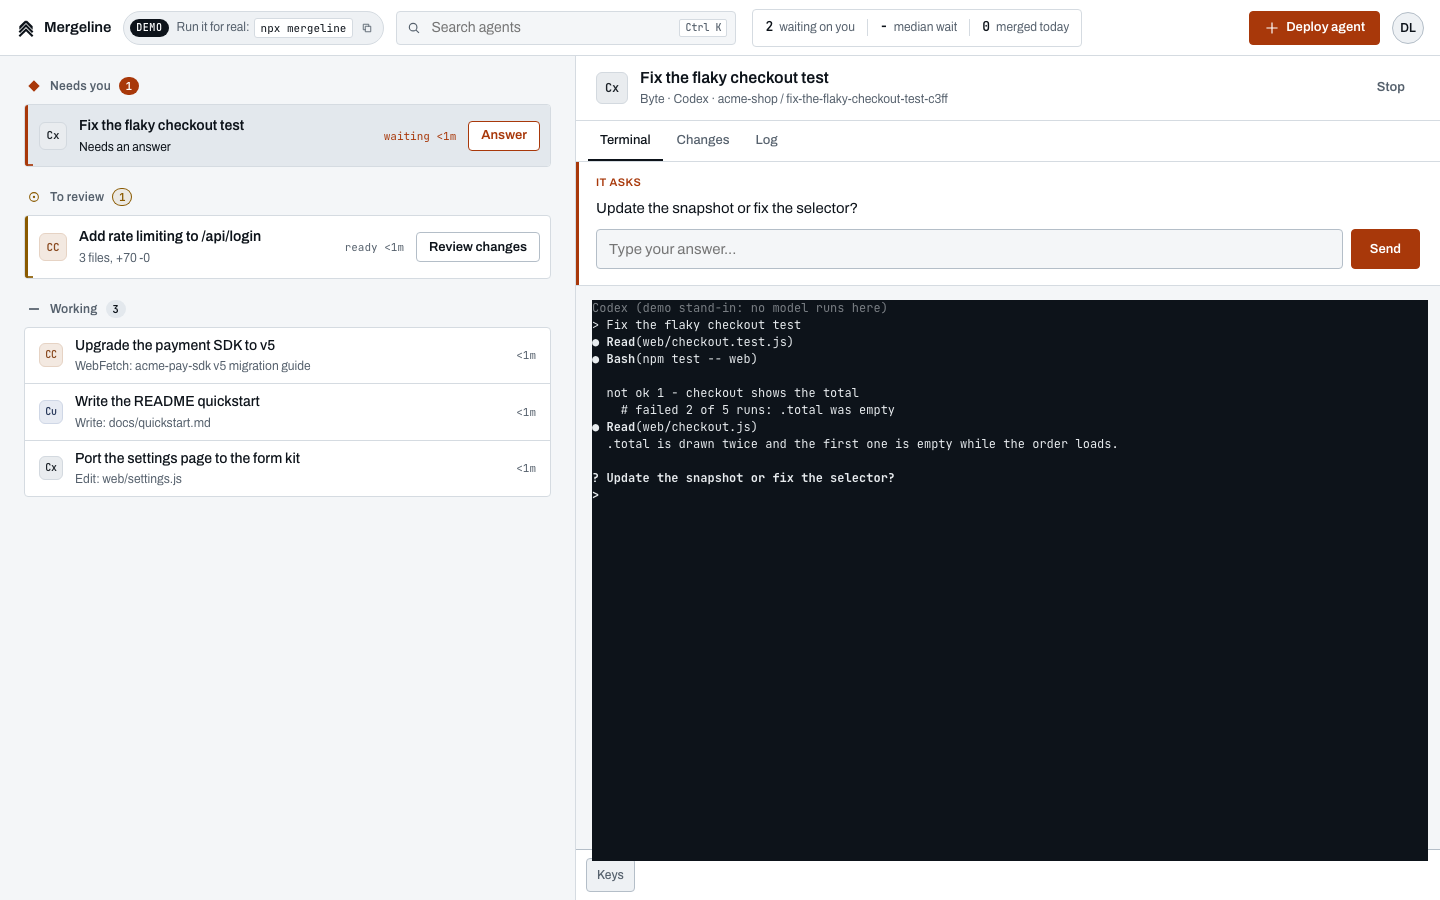
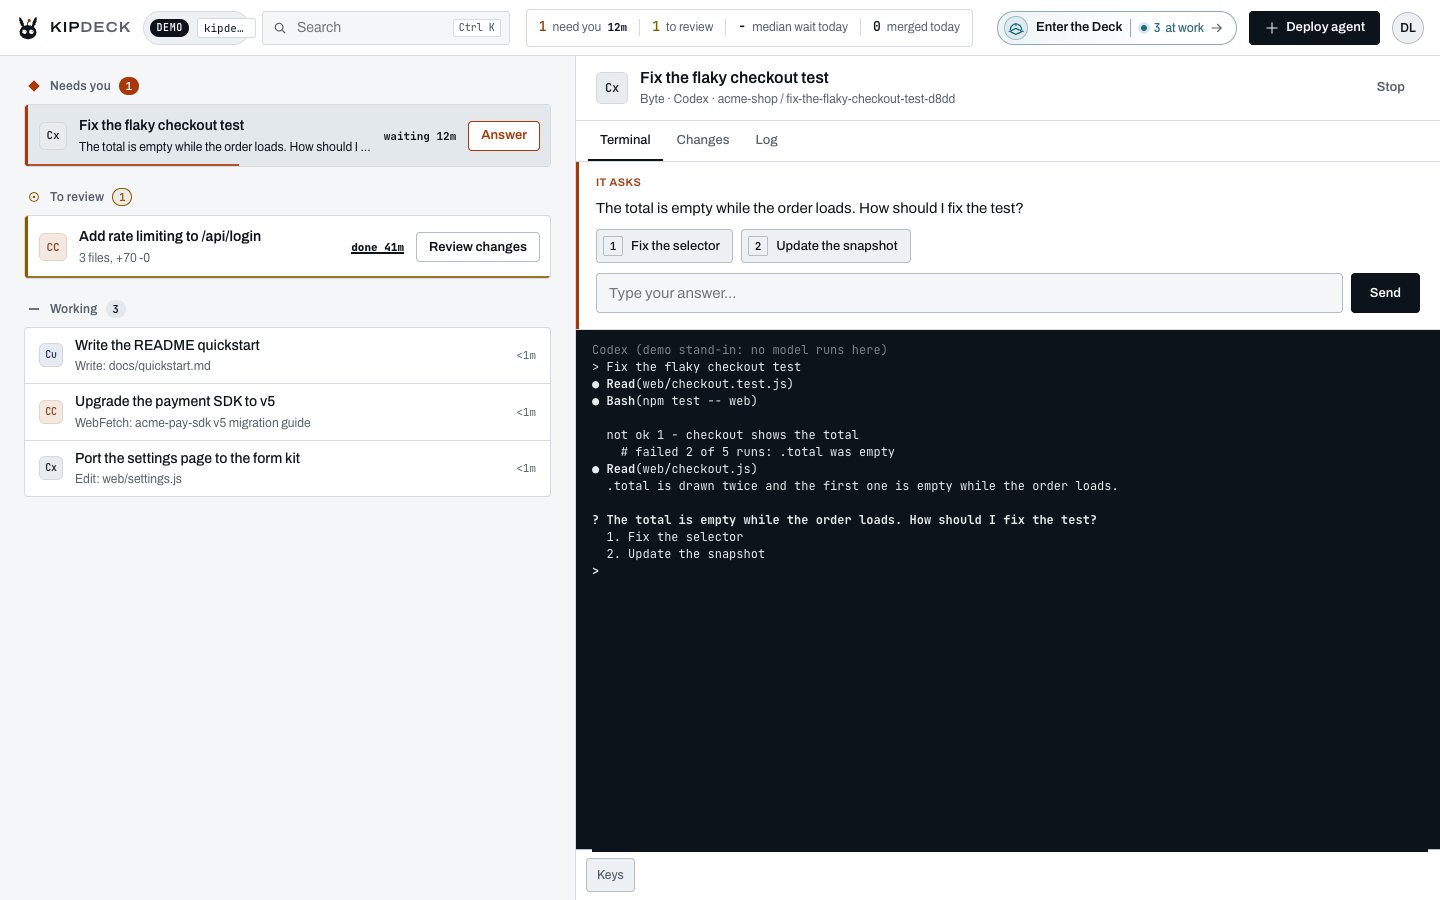
README and docs media from the current build: demo GIF, inbox, the Deck
docs/img/demo.gif is recorded again from the main build (Kip logo, Enter the Deck, Labs on).
docs/img/bridge-wall.png, which showed the old wordmark, becomes docs/img/deck-wall.png, shot
at /deck. docs/img/inbox.png and inbox-phone.png are shot again from the demo.

diff --git a/PRODUCT.md b/PRODUCT.md
@@ -77,7 +77,7 @@ Nothing was deleted. Every lab is on as Kipdeck ships, the Deck first: it is the
 | The Deck's mascot, ship's voice, hands, lounge, rituals, motion and soundscape | `ambience` | `--labs ambience` |
 | Proof of Merge: bounties, payouts, attestations, ERC-8004 reputation, x402, `/pom/` | `proof` | `--labs proof`, or any chain flag (`--x402`, `--attest`, `--reputation`) |
 
-Also moved, not removed: the Get started checklist (under the list; none in the demo), the usage-numbers switch (Settings > Account), the terminal's quick keys (behind **Keys**), the Changes footer's Commit and Discard (shown while something is uncommitted), the 3D Deck on the landing page (the docs and `docs/img/bridge-wall.png`), and the 3D Deck in the video (`REC_BRIDGE=1 node design/record-demo.mjs`).
+Also moved, not removed: the Get started checklist (under the list; none in the demo), the usage-numbers switch (Settings > Account), the terminal's quick keys (behind **Keys**), the Changes footer's Commit and Discard (shown while something is uncommitted), the 3D Deck on the landing page (the docs and `docs/img/deck-wall.png`), and the 3D Deck in the video (`REC_DECK=1 node design/record-demo.mjs`).
 
 ## Time to value and click counts
 

diff --git a/README.md b/README.md
@@ -28,7 +28,7 @@ Run it inside the repository you work in. It opens in your browser, signed in, w
 
 | | |
 | --- | --- |
-| ![The inbox on a phone: the list alone, an agent opens over it (demo data)](docs/img/inbox-phone.png) | ![The 3D Deck, the same agents as a room (demo data)](docs/img/bridge-wall.png) |
+| ![The inbox on a phone: the list alone, an agent opens over it (demo data)](docs/img/inbox-phone.png) | ![The 3D Deck, the same agents as a room (demo data)](docs/img/deck-wall.png) |
 | The same inbox on a phone. | The Deck at `/deck`: the same agents as a room, for a team's wall screen. The old `/bridge` address still lands there. |
 
 ## Run it
